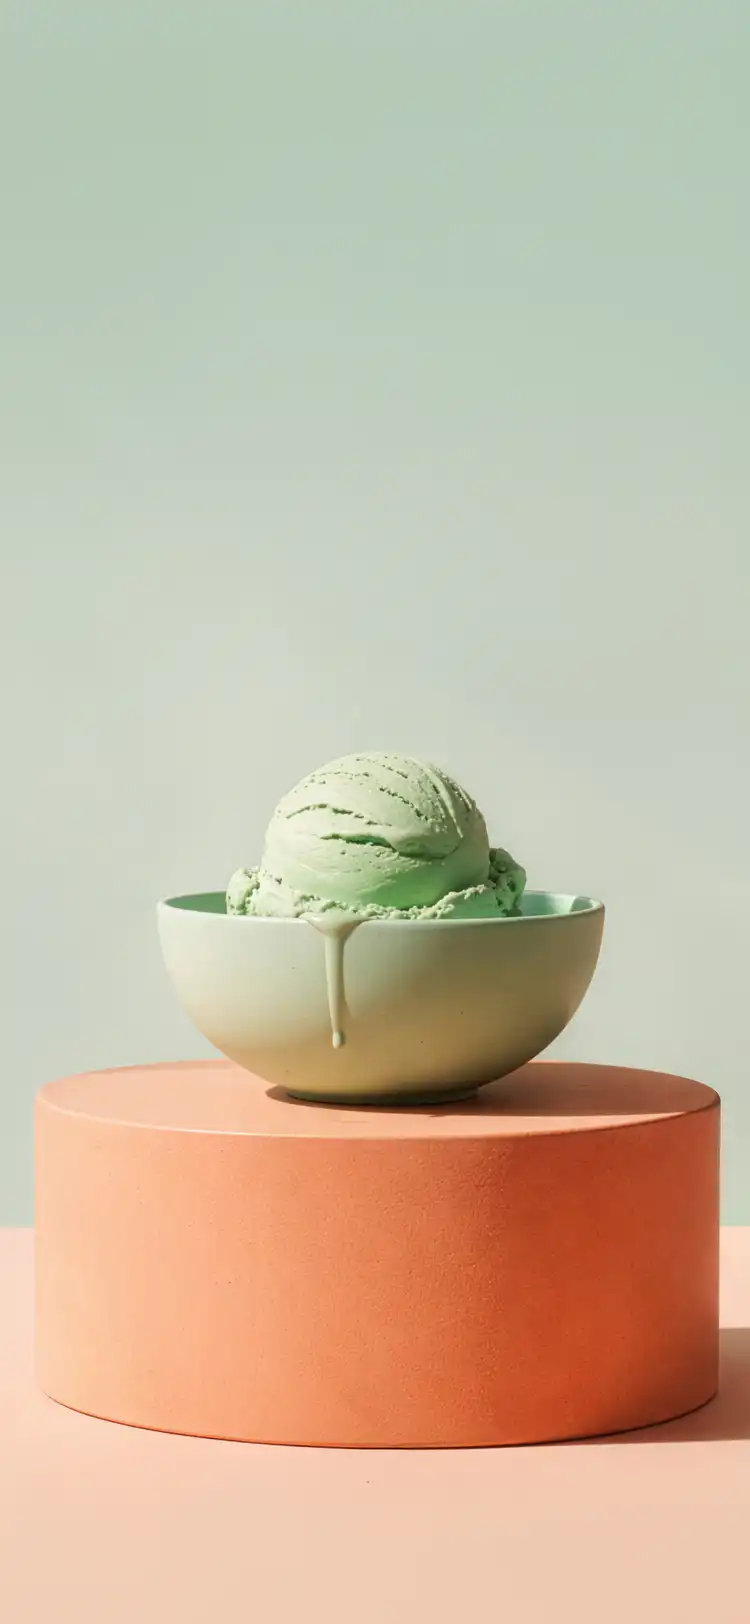
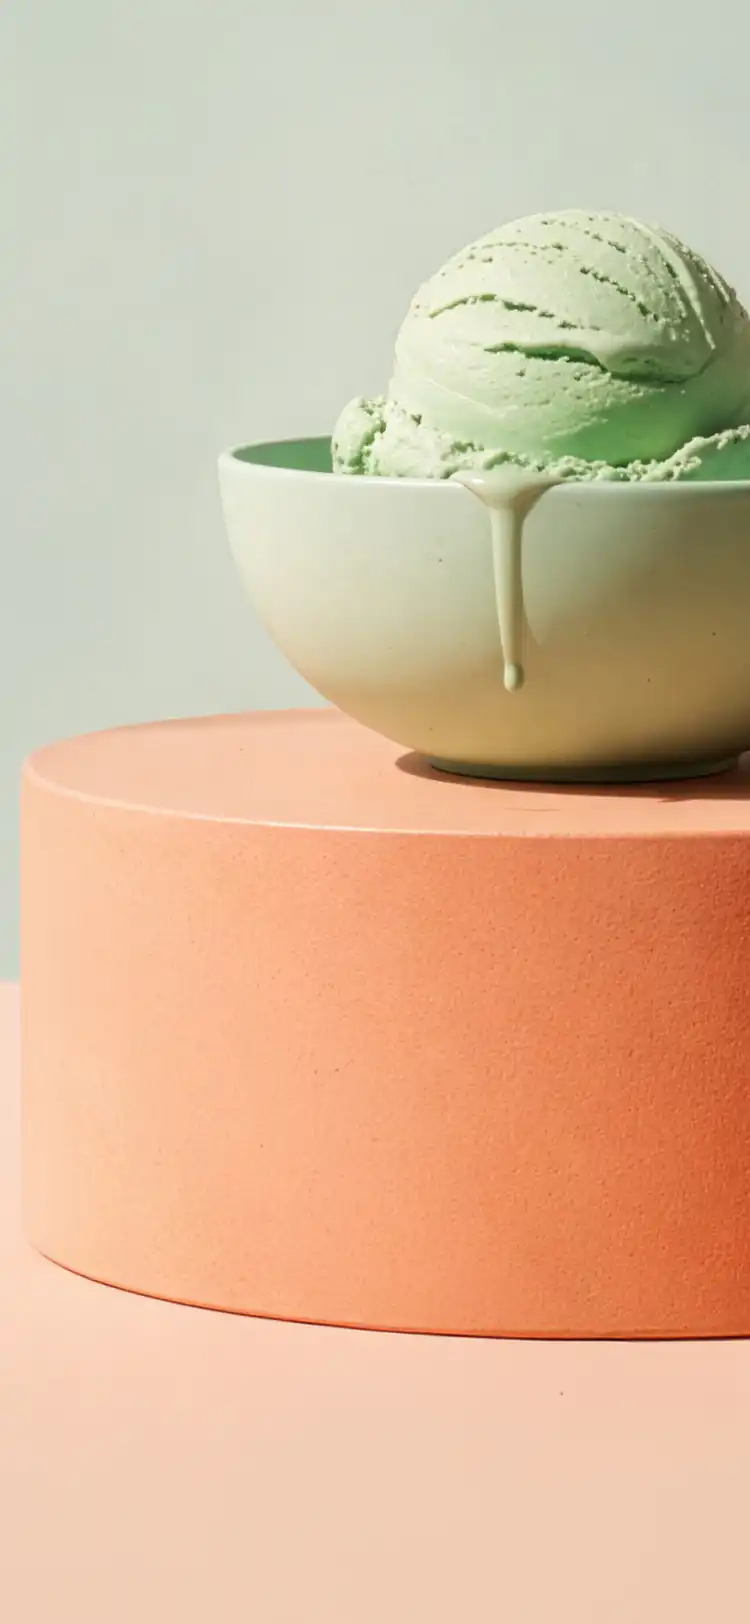
update crop for portrait

diff --git a/packages/photography/config/general28.ts b/packages/photography/config/general28.ts
@@ -1,6 +1,34 @@
-import {  PhotographyConfig } from '../types/types';
+import { PhotographyConfig } from '../types/types';
 
-  const config: PhotographyConfig = {
-  };
+const config: PhotographyConfig = {
+  focalPoint: {
+    originalImage: {
+      dimensions: {
+        width: 3028,
+        height: 3001,
+      },
+      focalPoint: {
+        x: 2060,
+        y: 1260,
+        normalizedX: 0.68,
+        normalizedY: 0.42,
+      },
+    },
+    crops: {
+      PORTRAIT_LARGE: {
+        extractParams: {
+          top: 1150,
+          left: 330,
+          width: 1918,
+          height: 1900,
+        },
+        targetDimensions: {
+          width: 375,
+          height: 812,
+        },
+      },
+    },
+  },
+};
 
-  export default config;
+export default config;
